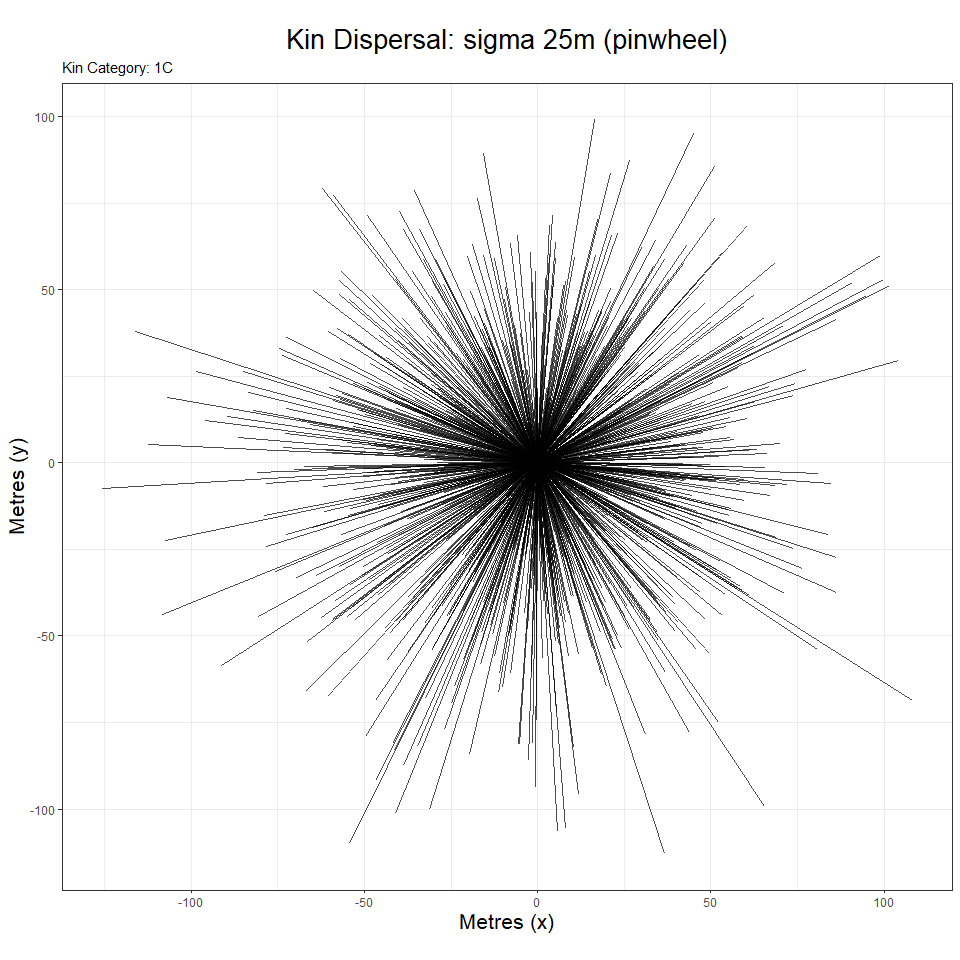
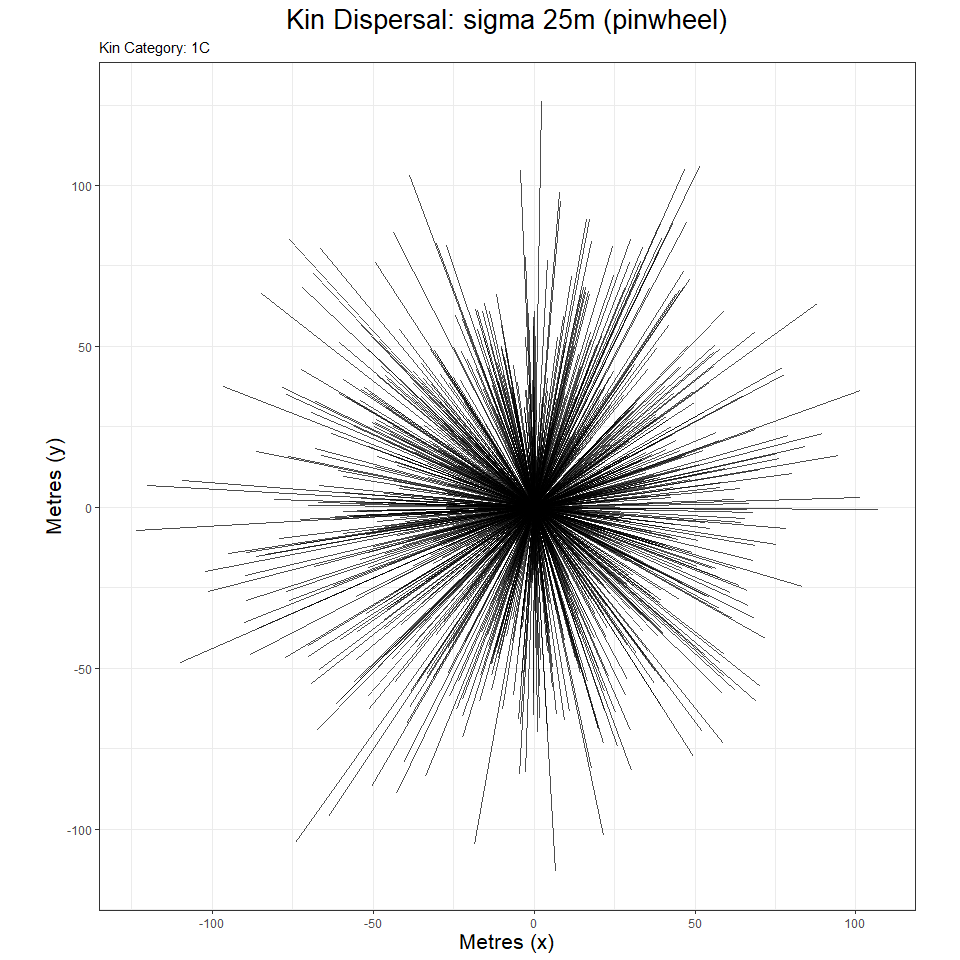
added Gamma kernel & shape parameter

diff --git a/README.md b/README.md
@@ -153,7 +153,7 @@ Once installed, load the package as follows:
 
 ``` r
 library(kindisperse)
-#> kindisperse v0.6.2
+#> kindisperse v0.6.3
 ```
 
 ## Simulations and Sampling
@@ -212,6 +212,14 @@ validating the estimation functions. They return an object of class
 KinPairSimulation, which supplies a tibble (dataframe) of simulation
 results, as well as metadata capturing the simulation parameters.
 
+Three kernel types are supported for the next two simulations at
+present: `Gaussian`, `Laplace`, and `Gamma`. These are passed to the
+functions with the `method` parameter. If using gamma, also supply its
+shape parameter with the argument `shape`. Small values of `shape`
+correspond to an increasingly leptokurtic kernel - i.e. a strong central
+clustering with an increased number of very widely spaced individuals
+(long tails).
+
 The simple simulation, `simulate_kindist_simple()`, provides dispersals
 for each kin category based on a simple parent-offspring dispersal
 sigma, with no attempt to distinguish between the various breeding and
@@ -237,13 +245,13 @@ simulate_kindist_simple(nsims = 5, sigma = 100, method = "Gaussian", kinship = "
 #> 
 #> tab
 #> # A tibble: 5 x 8
-#>   id1   id2   kinship distance    x1    y1     x2      y2
-#>   <chr> <chr> <chr>      <dbl> <dbl> <dbl>  <dbl>   <dbl>
-#> 1 1a    1b    PO         152.  29.8   4.69 129.   -111.  
-#> 2 2a    2b    PO         169.  92.0  27.4  221.    -81.8 
-#> 3 3a    3b    PO          63.5  6.36 39.9  -37.2    -6.24
-#> 4 4a    4b    PO          37.1 35.3   7.11   9.53  -19.6 
-#> 5 5a    5b    PO         133.  29.3  49.5   27.6   -83.6 
+#>   id1   id2   kinship distance    x1    y1     x2     y2
+#>   <chr> <chr> <chr>      <dbl> <dbl> <dbl>  <dbl>  <dbl>
+#> 1 1a    1b    PO         105.   69.2  77.9 -28.7   115. 
+#> 2 2a    2b    PO          60.4  41.3  60.3  72.3   112. 
+#> 3 3a    3b    PO         214.   24.9  94.7  -5.05 -117. 
+#> 4 4a    4b    PO         147.   59.2  61.8  -1.78  -72.0
+#> 5 5a    5b    PO         115.   48.7  61.8  62.8   -52.7
 #> -----------------------------------
 ```
 
@@ -289,13 +297,13 @@ simulate_kindist_composite(nsims = 5, juvsigma = 50, breedsigma = 30, gravsigma 
 #> 
 #> tab
 #> # A tibble: 5 x 8
-#>   id1   id2   kinship distance     x1     y1      x2     y2
-#>   <chr> <chr> <chr>      <dbl>  <dbl>  <dbl>   <dbl>  <dbl>
-#> 1 1a    1b    H1C         147. -120.  -96.9  -23.3   -208. 
-#> 2 2a    2b    H1C         381.  235.   60.4   -0.127 -239. 
-#> 3 3a    3b    H1C         253.  220.   -7.57   2.38   122. 
-#> 4 4a    4b    H1C         140.  113.  129.     2.87    42.5
-#> 5 5a    5b    H1C         257.   66.9  63.0  323.      79.2
+#>   id1   id2   kinship distance    x1    y1     x2      y2
+#>   <chr> <chr> <chr>      <dbl> <dbl> <dbl>  <dbl>   <dbl>
+#> 1 1a    1b    H1C         306.  93.1 -32.7 -211.     1.55
+#> 2 2a    2b    H1C         147. 115.  -48.4   83.2   94.9 
+#> 3 3a    3b    H1C         317. 160.  -90.8  -27.7  165.  
+#> 4 4a    4b    H1C         185. -50.0 134.  -220.    61.5 
+#> 5 5a    5b    H1C         324.  55.1 219.    75.1 -105.  
 #> -----------------------------------
 ```
 
@@ -338,18 +346,18 @@ sample_kindist(compsim, upper = 1000, lower = 200, spacing = 50, n = 25)
 #> 
 #> tab
 #> # A tibble: 25 x 8
-#>    id1    id2    kinship distance     x1     y1      x2      y2
-#>    <chr>  <chr>  <chr>      <dbl>  <dbl>  <dbl>   <dbl>   <dbl>
-#>  1 61593a 61593b H2C          425  333.   370.  -78.9    250.  
-#>  2 54807a 54807b H2C          275  116.   -25.0 258.    -231.  
-#>  3 48a    48b    H2C          275 -138.    49.6 126.     158.  
-#>  4 61423a 61423b H2C          225  132.   271.    0.189  104.  
-#>  5 33163a 33163b H2C          225   67.4  349.  214.     182.  
-#>  6 41035a 41035b H2C          425 -253.   407.  123.     242.  
-#>  7 11148a 11148b H2C          475  316.    59.0 114.     498.  
-#>  8 31459a 31459b H2C          325 -155.   123.  138.      19.2 
-#>  9 20890a 20890b H2C          375 -311.   122.   25.1     10.5 
-#> 10 53108a 53108b H2C          225   68.6 -128.  275.       3.23
+#>    id1    id2    kinship distance     x1     y1     x2      y2
+#>    <chr>  <chr>  <chr>      <dbl>  <dbl>  <dbl>  <dbl>   <dbl>
+#>  1 72273a 72273b H2C          275  125.   -14.5   34.7  228.  
+#>  2 91790a 91790b H2C          625 -441.    64.3  110.  -209.  
+#>  3 74839a 74839b H2C          475  108.  -209.  -274.    70.3 
+#>  4 9054a  9054b  H2C          325 -341.    15.2  -22.8   -4.20
+#>  5 53296a 53296b H2C          325  -87.0  353.   258.   383.  
+#>  6 3227a  3227b  H2C          225  157.   167.   348.   244.  
+#>  7 71242a 71242b H2C          525  200.   130.  -314.    62.2 
+#>  8 53661a 53661b H2C          275  101.   -26.5  207.  -284.  
+#>  9 71095a 71095b H2C          375  -59.8   54.3  306.   -27.5 
+#> 10 12298a 12298b H2C          275  200.   158.   385.   -44.1 
 #> # ... with 15 more rows
 #> -----------------------------------
 ```
@@ -396,18 +404,18 @@ csv_to_kinpair("FS_kin.csv")
 #> 
 #> tab
 #> # A tibble: 25 x 9
-#>    id1   id2   kinship distance    x1    y1    x2    y2 lifestage
-#>    <chr> <chr> <chr>      <dbl> <dbl> <dbl> <dbl> <dbl> <chr>    
-#>  1 1a    1b    FS             0 15.6  57.9  15.6  57.9  larva    
-#>  2 2a    2b    FS             0 79.8  61.1  79.8  61.1  larva    
-#>  3 3a    3b    FS             0 30.3  15.2  30.3  15.2  larva    
-#>  4 4a    4b    FS             0 58.4   3.43 58.4   3.43 larva    
-#>  5 5a    5b    FS             0 82.1  37.2  82.1  37.2  larva    
-#>  6 6a    6b    FS             0 32.8  76.9  32.8  76.9  larva    
-#>  7 7a    7b    FS             0 54.9  29.9  54.9  29.9  larva    
-#>  8 8a    8b    FS             0 68.4  82.4  68.4  82.4  larva    
-#>  9 9a    9b    FS             0 86.3  15.1  86.3  15.1  larva    
-#> 10 10a   10b   FS             0  8.86 56.7   8.86 56.7  larva    
+#>    id1   id2   kinship distance    x1     y1    x2     y2 lifestage
+#>    <chr> <chr> <chr>      <dbl> <dbl>  <dbl> <dbl>  <dbl> <chr>    
+#>  1 1a    1b    FS             0  7.99  0.963  7.99  0.963 larva    
+#>  2 2a    2b    FS             0 76.4  48.3   76.4  48.3   larva    
+#>  3 3a    3b    FS             0 43.9  17.5   43.9  17.5   larva    
+#>  4 4a    4b    FS             0 89.2   8.52  89.2   8.52  larva    
+#>  5 5a    5b    FS             0 97.8  30.6   97.8  30.6   larva    
+#>  6 6a    6b    FS             0 59.0   9.88  59.0   9.88  larva    
+#>  7 7a    7b    FS             0  6.22 48.1    6.22 48.1   larva    
+#>  8 8a    8b    FS             0 58.9  84.7   58.9  84.7   larva    
+#>  9 9a    9b    FS             0 43.5  99.0   43.5  99.0   larva    
+#> 10 10a   10b   FS             0 77.4  37.3   77.4  37.3   larva    
 #> # ... with 15 more rows
 #> -------------------------------
 ```
@@ -478,13 +486,13 @@ of three draws from the PO distribution, and thus would take `composite
 ``` r
 paroff <- simulate_kindist_simple(nsims = 1000, sigma = 75, kinship = "PO")
 axials(paroff)
-#> [1] 72.8395
+#> [1] 73.62712
 ```
 
 ``` r
 fullsibs <- simulate_kindist_composite(nsims = 10000, ovisigma = 25, kinship = "FS")
 axials(fullsibs, composite = 2)
-#> [1] 24.78999
+#> [1] 25.06756
 ```
 
 Various auxillary functions exist to further manipulate axial distances
@@ -569,7 +577,7 @@ fullcous <- simulate_kindist_composite(nsims = 75, juvsigma = juv, breedsigma = 
 
 axpermute_standard(fullcous, fullsibs)
 #>     2.5%      50%    97.5% 
-#> 80.41642 89.90300 98.92180
+#> 80.73978 89.39234 97.07651
 ```
 
 As we can see, the C.I. neatly brackets the actual axial value, though
@@ -598,18 +606,18 @@ cousins
 #> 
 #> tab
 #> # A tibble: 150 x 9
-#>    id1   id2   kinship distance    x1     y1     x2    y2 lifestage
-#>    <chr> <chr> <chr>      <dbl> <dbl>  <dbl>  <dbl> <dbl> <chr>    
-#>  1 1a    1b    UN         113.   48.4  -20.4 157.    11.2 larva    
-#>  2 2a    2b    UN          76.4  58.6  126.   50.6   50.1 larva    
-#>  3 3a    3b    UN          55.6  36.8  -99.8  83.9  -70.1 larva    
-#>  4 4a    4b    UN         281.  372.   -50.7 120.    74.7 larva    
-#>  5 5a    5b    UN         195.  106.   206.   34.2   24.5 larva    
-#>  6 6a    6b    UN         184.  -25.6  104.   45.2  274.  larva    
-#>  7 7a    7b    UN          96.8  40.2   60.4  42.6  157.  larva    
-#>  8 8a    8b    UN         183.  138.  -194.   53.9  -32.2 larva    
-#>  9 9a    9b    UN         305.  223.   224.  -10.8   29.1 larva    
-#> 10 10a   10b   UN         123.  130.    38.2   9.14  15.3 larva    
+#>    id1   id2   kinship distance     x1      y1     x2    y2 lifestage
+#>    <chr> <chr> <chr>      <dbl>  <dbl>   <dbl>  <dbl> <dbl> <chr>    
+#>  1 1a    1b    UN         169.   85.5    49.2   22.4  206.  larva    
+#>  2 2a    2b    UN         146.   -9.63  263.    19.5  120.  larva    
+#>  3 3a    3b    UN          72.4 -45.3   113.     2.64  58.9 larva    
+#>  4 4a    4b    UN         217.   79.6    21.0  216.   190.  larva    
+#>  5 5a    5b    UN          84.1  16.7    88.8  -66.6   76.7 larva    
+#>  6 6a    6b    UN          44.6  78.3    81.4  117.    59.8 larva    
+#>  7 7a    7b    UN         161.  -42.1     5.62 100.   -69.0 larva    
+#>  8 8a    8b    UN         211.    7.24  -40.4  -58.8  160.  larva    
+#>  9 9a    9b    UN         332.  147.   -119.   112.   212.  larva    
+#> 10 10a   10b   UN         210.  -53.0   -22.5   69.1  148.  larva    
 #> # ... with 140 more rows
 #> -------------------------------
 ```
@@ -625,8 +633,8 @@ missing category data:
 # bcomp allows supply of distribution to composite with bvect (this is done to match 
 # the cousin mixture in phase)
 axpermute_standard(avect = cousins, acat = "1C", amix = TRUE, amixcat = "H1C", bvect = fullsibs, bcomp = TRUE, bcompvect = halfsibs)
-#>     2.5%      50%    97.5% 
-#> 75.17485 87.21850 98.19688
+#>      2.5%       50%     97.5% 
+#>  81.40520  93.86468 106.61667
 ```
 
 This estimate is a lot more convoluted, and not as ‘spot on’- but the
